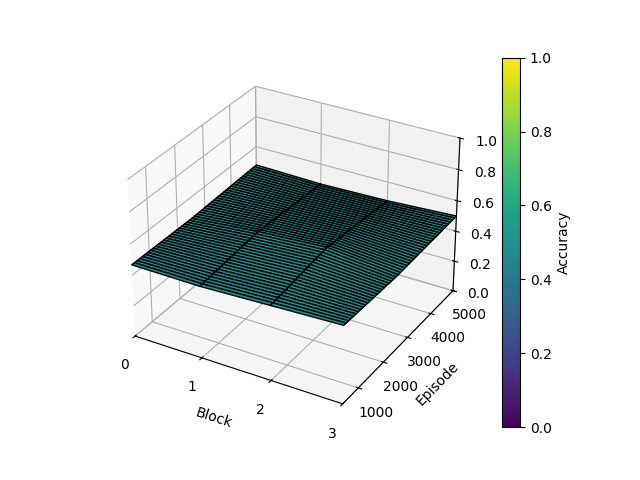
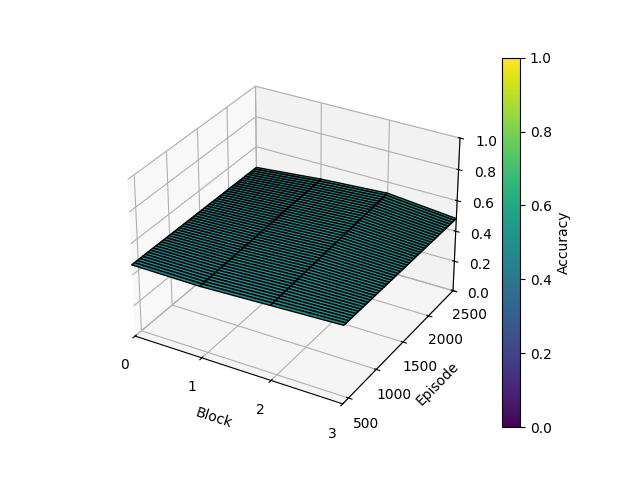
new plots

diff --git a/xai/cav/cav.py b/xai/cav/cav.py
@@ -59,8 +59,7 @@ episode_numbers = [
 ]
 episode_numbers = [
     "100",
-    "150",
-    "200"
+    "3500",
 ]
 
 # episode_numbers = ["100", "200"]
@@ -330,6 +329,7 @@ class CAV:
         accuracy, cav = self.cav_model(
             positive_train, negative_train, positive_test, negative_test
         )
+        print("Accuracy: ", accuracy, "Block: ", block, "Episode: ", episode_number)
         self.cav_list.append((block, episode_number, accuracy))
         return cav
 
@@ -350,6 +350,7 @@ class CAV:
 
             if episode_number not in episode_numbers:
                 continue
+
             
             print("dataset directory train:", dataset_directory_train)
             (
@@ -357,10 +358,10 @@ class CAV:
                 negative,
                 positive_test,
                 negative_test,
-                q_values_positive,
-                q_values_negative,
+                _,
+                _,
                 q_values_positive_test,
-                q_values_negative_test,
+                _,
             ) = self.read_dataset(
                     concept=concept,
                     dataset_directory_train=dataset_directory_train,
@@ -394,10 +395,10 @@ class CAV:
                     negative,
                     positive_test,
                     negative_test,
-                    q_values_positive,
-                    q_values_negative,
+                    _,
+                    _,
                     q_values_positive_test,
-                    q_values_negative_test,
+                    _,
                 ) = self.read_dataset(
                     concept=concept,
                     dataset_directory_train=dataset_directory_train,
@@ -477,7 +478,7 @@ class CAV:
         cav_list = torch.load(f"./results/cav/cav_list_{concept}.pt")
         return cav_list
 
-    def plot_cav(self, concept: str, tcav: bool = False):
+    def plot_cav(self, concept: str):
 
         if len(self.cav_list) == 0:
             self.cav_list = self.load_cav(concept)
@@ -592,12 +593,12 @@ def main():
     dataset_directory_random = f"./dataset/{model_name}/{map_name}"
     save_path = f"./results/cav/{model_name}/{map_name}"
 
-    concept = "random"
-    cav = CAV()
-    cav.calculate_cav(concept, dataset_directory_random, dataset_directory_random, model_load_path, sensitivity=False)
-    cav.plot_cav(concept)
+    #concept = "random"
+    #cav = CAV()
+    #cav.calculate_cav(concept, dataset_directory_random, dataset_directory_random, model_load_path, sensitivity=False)
+    #cav.plot_cav(concept)
 
-    """for i in range(15):
+    for i in range(-1,16):
         concept = f"grid_observations_{i}"
         # grid_observation_dataset(model_name, concept)
         # cav = CAV()
@@ -610,7 +611,7 @@ def main():
                 cav.calculate_cav(concept, dataset_directory_train, dataset_directory_test, model_load_path, sensitivity=False, action_index=action)
                 cav.plot_cav(concept)
                 #tcav = cav.tcav_list
-                #analysis.add_total_tcav_scores(tcav)"""
+                #analysis.add_total_tcav_scores(tcav)
 
     #cav_list = torch.load(f"./cav_list_{concept}.pt")
     #cav.cav_list = cav_list

diff --git a/xai/cav/cav_ff/dataset/read_pt.py b/xai/cav/cav_ff/dataset/read_pt.py
@@ -1,0 +1,10 @@
+import torch
+
+
+activations = torch.load("positive_next_wall_activations_0_episode_4000.pt")
+
+print(activations[-1])
+
+activations = torch.load("positive_next_wall_activations_0_episode_10.pt")
+
+print(activations[-1])
